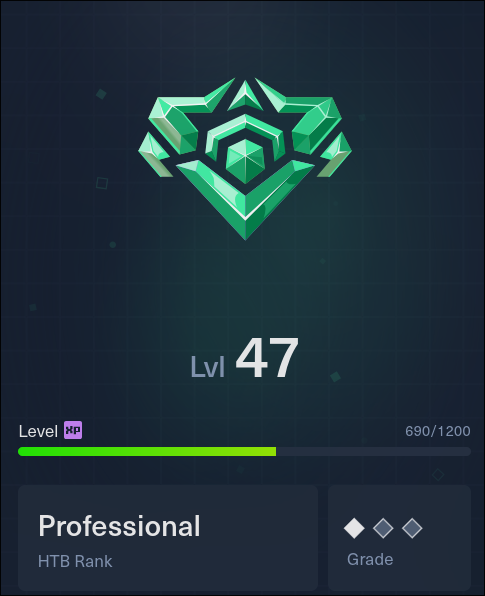
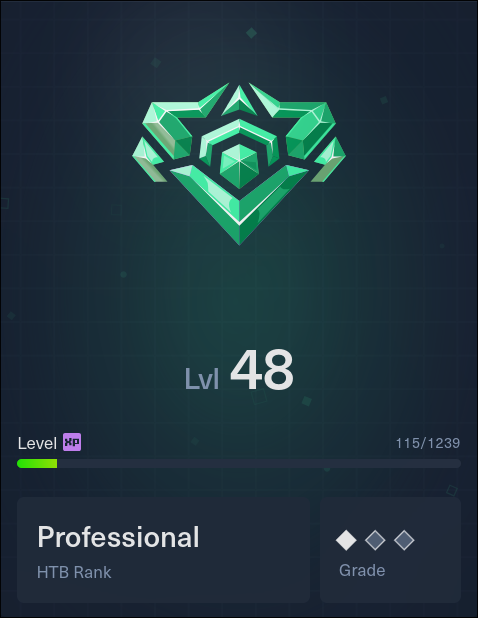
Actualizar screenshots HTB: Level 48, Professional, Season 11 Ruby Tier #638

diff --git a/README.md b/README.md
@@ -100,9 +100,9 @@
 </p>
 
 <p align="center">
-  <img src="https://img.shields.io/badge/Rank-926-ff4444?style=for-the-badge&logo=hackthebox&logoColor=white" />
-  <img src="https://img.shields.io/badge/Points-91-ff6666?style=for-the-badge&logo=hackthebox&logoColor=white" />
-  <img src="https://img.shields.io/badge/Machines%20Owned-91-ff8888?style=for-the-badge&logo=hackthebox&logoColor=white" />
+  <img src="https://img.shields.io/badge/Level-48-00FF00?style=for-the-badge&logo=hackthebox&logoColor=white" />
+  <img src="https://img.shields.io/badge/Rank-Professional-DAA520?style=for-the-badge&logo=hackthebox&logoColor=white" />
+  <img src="https://img.shields.io/badge/Status-Active-ff6666?style=for-the-badge&logo=hackthebox&logoColor=white" />
 </p>
 
 <br/>
@@ -112,7 +112,7 @@
 | |
 |:---:|
 | <img src="https://raw.githubusercontent.com/Jeanback1/Jeanback1/main/assets/htb/audit-20260623-231538.png" width="400" alt="HTB Profile" /> |
-| **Profile**<br/>`Hacker` · `VIP 🜲` · `Team #DO` |
+| **Profile**<br/>`Level 48` · `Professional` · `VIP 🜲` · `Team #DO` |
 
 </div>
 
@@ -122,8 +122,8 @@
 
 | | |
 |:---:|:---:|
-| <img src="https://raw.githubusercontent.com/Jeanback1/Jeanback1/main/assets/htb/audit-20260623-225553.png" height="420" alt="HTB Academy" /> | <img src="https://raw.githubusercontent.com/Jeanback1/Jeanback1/main/assets/htb/audit-20260623-231326.png" height="420" alt="HTB Season 11" /> |
-| **Academy Progress**<br/>`Level 47` · `Professional` · `690/1200 XP` | **Season 11 — Competitive**<br/>`Silver Tier` · `Rank #1204` · `305 pts` · `10/26 Flags` · `85.71% → Gold` |
+| <img src="https://raw.githubusercontent.com/Jeanback1/Jeanback1/main/assets/htb/audit-20260623-225553.png" height="420" alt="HTB Profile" /> | <img src="https://raw.githubusercontent.com/Jeanback1/Jeanback1/main/assets/htb/audit-20260623-231326.png" height="420" alt="HTB Season 11" /> |
+| **Profile**<br/>`Level 48` · `Professional` · `115/1239 XP` | **Season 11 — Competitive**<br/>`Ruby Tier` · `Rank #638` · `350 pts` · `12/26 Flags` |
 
 </div>
 
